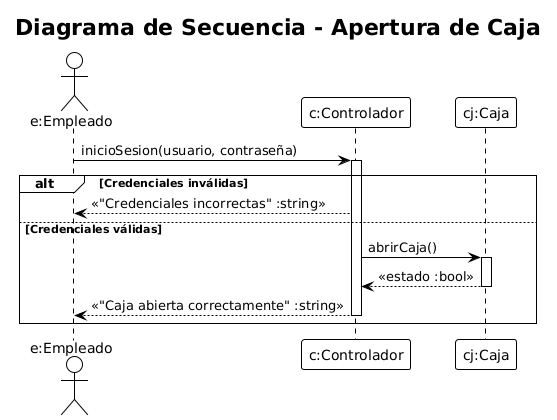
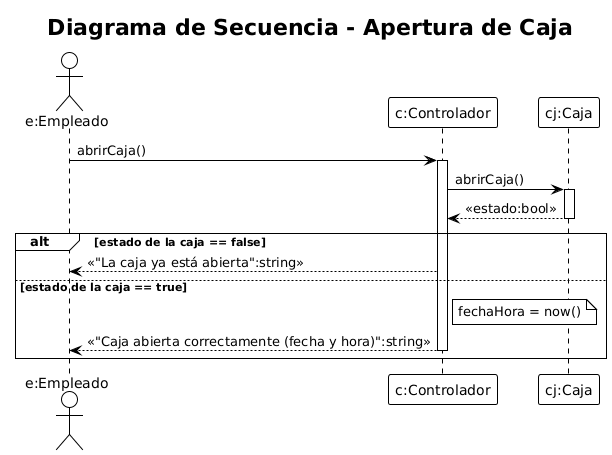
Correcion de diagramas, casos de usos y metodos
Tanto en diagramas con su nombre en los archivos

Changed region(s): [[0.0, 0.031, 1.0, 0.9905], [0.5494, 0.1857, 1.0, 0.3095]]

diff --git a/05 - Casos_de_uso/Caso_De_Uso_02_Cierre_de_Caja.md b/05 - Casos_de_uso/Caso_De_Uso_02_Cierre_de_Caja.md
@@ -6,10 +6,12 @@
 
 ### Camino básico: 
 1. El usuario selecciona la opción de “Cierre de caja”.
-2. El sistema informa mediante una alerta visual que se hizo el “cierre de caja con (fecha y hora).” y muestra un informe con todas las ventas realizadas en el día.
+2. El sistema informa mediante una alerta que se hizo el cierre de caja con (fecha y hora).
            
 ### Caminos alternativos:
-* No tiene.
+2.a La caja ya se encuentra cerrada.
+2.a.1 El sistema muestra un mensaje que informa sobre si la caja ya está cerrada".
+2.a.2 Fin del caso de uso.
 
 ### Escenario de éxito:
 - El usuario pudo cerrar la caja.
